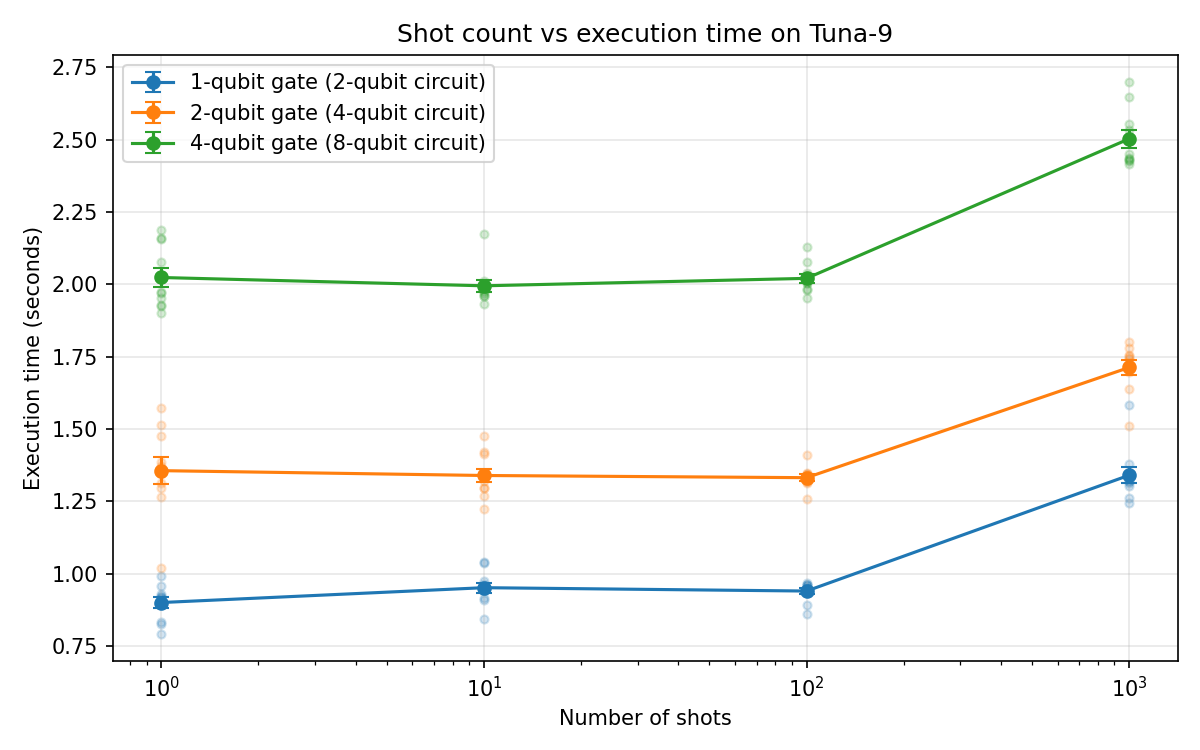
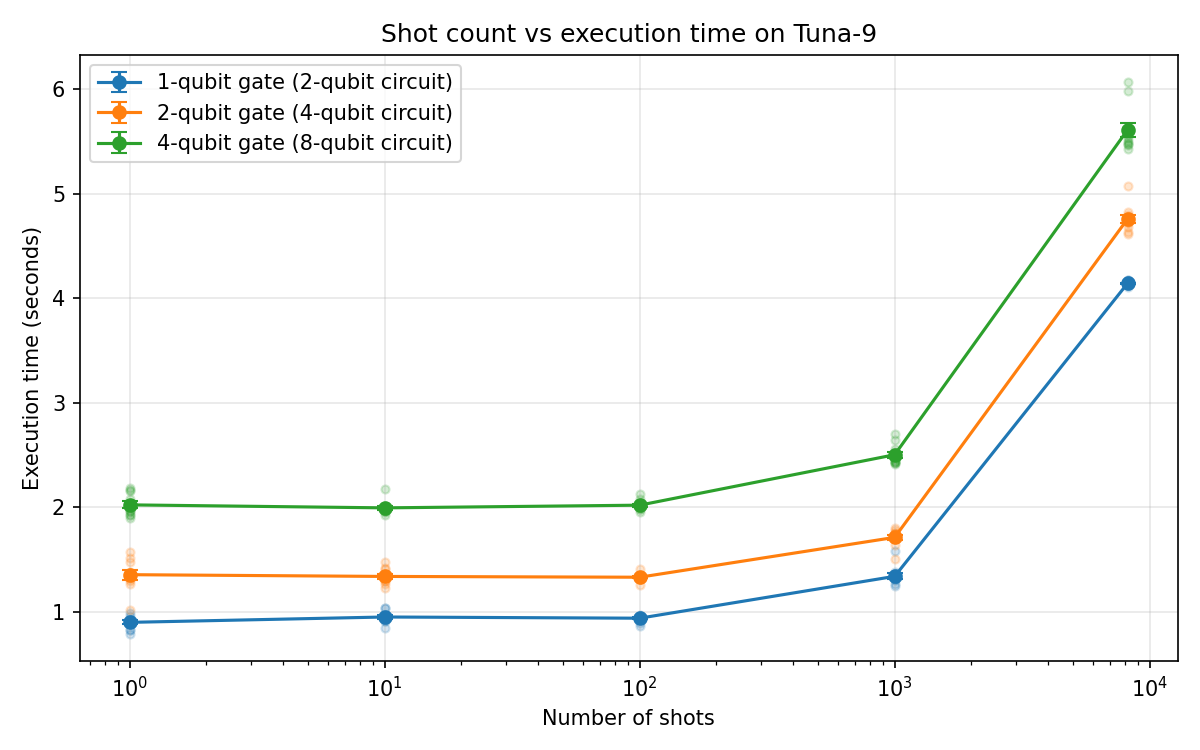
Shot timing script add 8192 (QI Tuna-9 max)

diff --git a/scripts/03_num_shots_time_comparison_tuna_9.py b/scripts/03_num_shots_time_comparison_tuna_9.py
@@ -27,7 +27,7 @@ from cliff_lib.state.utils import atomic_write
 # ── Configuration ────────────────────────────────────────────────────────────
 
 N_QUBITS_LIST = [1, 2, 4]
-SHOTS_LIST = [1, 10, 100, 1000]
+SHOTS_LIST = [1, 10, 100, 1000, 8192]
 N_REPS = 10
 
 RESULTS_DIR = Path("results/shot_timing")